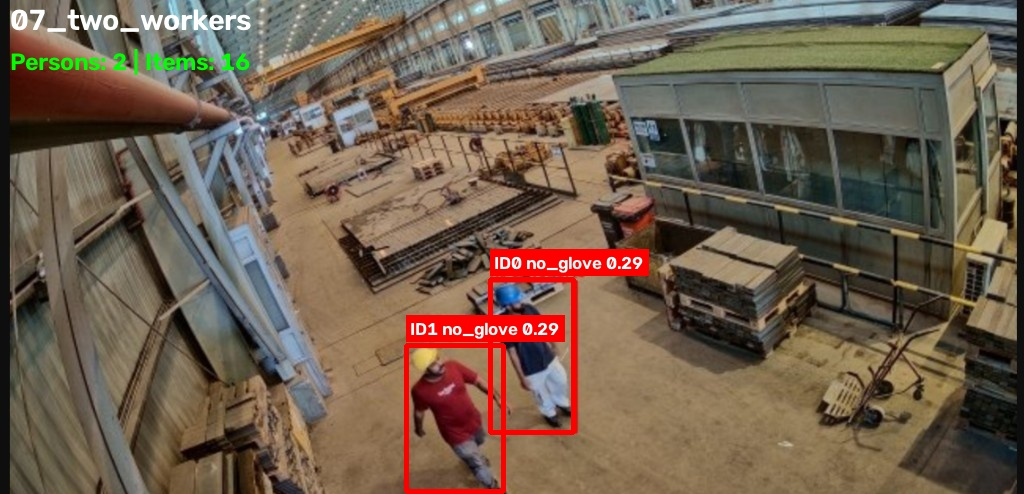
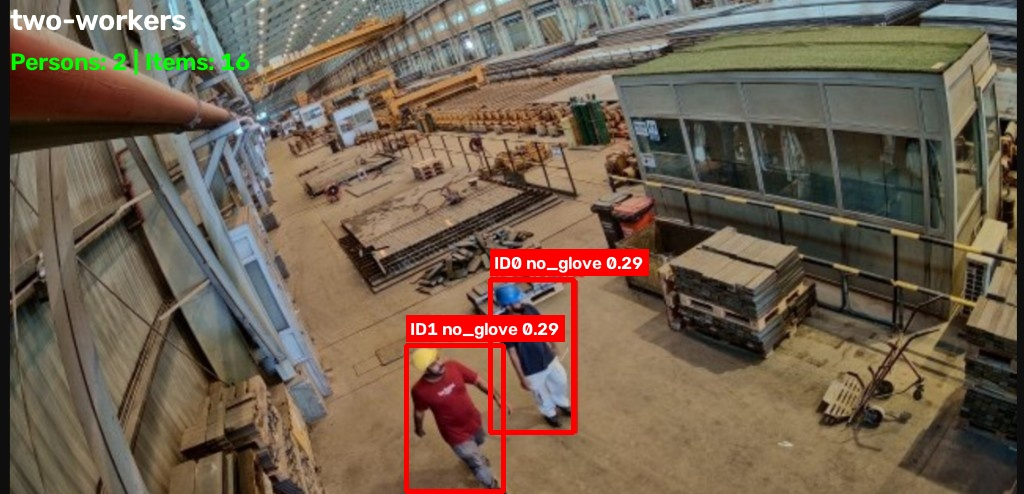
Update NVR IP address to 192.168.18.134 in AllDetect.py, glovesgoogle.py, and camera_shoes.py. Enhance ScreenshotManager by introducing zoom functionality for capturing violating persons, improving visual clarity in screenshots. Adjust detection logic in NVRConnect.py to filter weak false positives 

Changed region(s): [[0.0, 0.0, 0.25, 0.0607]]

diff --git a/screenshot.py b/screenshot.py
@@ -12,20 +12,24 @@ class ScreenshotManager:
         reset_time_seconds=30,
         upload_to_cloudinary=True,
         cloudinary_uploader=None,
+        zoom_pad_ratio=0.40,
+        zoom_out_size=720,
     ):
         self.screenshots_dir = screenshots_dir
         self.reset_time_seconds = reset_time_seconds  # Reset photographed persons after this many seconds
         self.photographed_persons = []  # List of dicts with person info and timestamp
+        self.zoom_pad_ratio = zoom_pad_ratio
+        self.zoom_out_size = zoom_out_size
         self.cloudinary_uploader = (
             cloudinary_uploader
             if cloudinary_uploader is not None
             else (CloudinaryUploader() if upload_to_cloudinary else None)
         )
-        
+
         # Create screenshots directory
         if not os.path.exists(screenshots_dir):
             os.makedirs(screenshots_dir)
-    
+
     def _clean_old_photographed_persons(self):
         """Remove photographed persons that are older than reset_time_seconds"""
         current_time = datetime.now()
@@ -33,34 +37,98 @@ class ScreenshotManager:
             person for person in self.photographed_persons
             if (current_time - person['timestamp']).total_seconds() < self.reset_time_seconds
         ]
-    
+
+    def _alarm_parts(self, label):
+        text = str(label or "").replace("|", ",").replace(" + ", ",")
+        return [p.strip() for p in text.split(",") if p.strip()]
+
+    def _zoom_violation_crop(self, frame, persons):
+        """
+        Zoom into violating person(s): pad the box, crop, then enlarge.
+        Uses a union box when several people violate in the same frame.
+        """
+        h, w = frame.shape[:2]
+        x1 = min(int(p["x1"]) for p in persons)
+        y1 = min(int(p["y1"]) for p in persons)
+        x2 = max(int(p["x2"]) for p in persons)
+        y2 = max(int(p["y2"]) for p in persons)
+
+        bw = max(1, x2 - x1)
+        bh = max(1, y2 - y1)
+        pad_x = int(bw * self.zoom_pad_ratio)
+        pad_y = int(bh * self.zoom_pad_ratio)
+
+        x1 = max(0, x1 - pad_x)
+        y1 = max(0, y1 - pad_y)
+        x2 = min(w, x2 + pad_x)
+        y2 = min(h, y2 + pad_y)
+
+        crop = frame[y1:y2, x1:x2]
+        if crop.size == 0:
+            return frame.copy()
+
+        # Keep aspect ratio; fit longest side to zoom_out_size
+        ch, cw = crop.shape[:2]
+        scale = float(self.zoom_out_size) / float(max(ch, cw))
+        new_w = max(1, int(round(cw * scale)))
+        new_h = max(1, int(round(ch * scale)))
+        zoomed = cv2.resize(crop, (new_w, new_h), interpolation=cv2.INTER_CUBIC)
+
+        # Remap person boxes into zoomed crop coords and draw labels
+        for person_info in persons:
+            px1 = int((int(person_info["x1"]) - x1) * scale)
+            py1 = int((int(person_info["y1"]) - y1) * scale)
+            px2 = int((int(person_info["x2"]) - x1) * scale)
+            py2 = int((int(person_info["y2"]) - y1) * scale)
+            cv2.rectangle(zoomed, (px1, py1), (px2, py2), (0, 0, 255), 2)
+            shown = (
+                str(person_info["label"])
+                .replace("NO-Hardhat", "No Helmet")
+                .replace("Hardhat", "Helmet")
+            )
+            cv2.putText(
+                zoomed,
+                f"{shown} {person_info['confidence']:.2f}",
+                (max(5, px1), max(25, py1 - 8)),
+                cv2.FONT_HERSHEY_SIMPLEX,
+                0.7,
+                (0, 0, 255),
+                2,
+            )
+
+        return zoomed
+
     def take_screenshot(self, frame, violating_persons, camera_name=None):
         """
-        Take a full screenshot with only violating persons highlighted in red.
-        
+        Zoom onto the violating person(s), then save that cropped screenshot.
+
         Args:
             frame: The original video frame
             violating_persons: List of dictionaries containing violation info (label, x1, y1, x2, y2, confidence)
             camera_name: Optional camera name included in Cloudinary metadata
-        
+
         Returns:
-            str: Path to the saved screenshot, or None if no new persons to photograph
+            dict with path/image_url/persons, or None if no new persons to photograph
         """
         # Clean old photographed persons (allow re-photographing after reset_time_seconds)
         self._clean_old_photographed_persons()
-        
+
         # Check if there are any new persons to photograph
         new_persons_to_photograph = []
-        
+
         alarm_labels = {
             "NO-Hardhat", "NO-Safety Vest", "no_glove", "no_goggles",
             "no_helmet", "no_goggle", "no_gloves", "no_boots",
+            "No Helmet", "No Gloves", "No Goggles",
         }
 
         for person_info in violating_persons:
-            parts = [p.strip() for p in str(person_info.get("label", "")).replace("|", ",").split(",")]
-            # Hardhat / helmet means the helmet is on. Do not save that as an alarm.
-            if not any(part in alarm_labels for part in parts):
+            parts = self._alarm_parts(person_info.get("label", ""))
+            # Only alarm on missing-gear labels (ignore worn Hardhat / helmet)
+            if not any(
+                part in alarm_labels or part.split()[0] in alarm_labels
+                for part in parts
+            ):
                 continue
             # Check if this person was already photographed (similar location)
             is_new_person = True
@@ -71,28 +139,24 @@ class ScreenshotManager:
                 if overlap > 0:  # If there's any overlap, consider it the same person
                     is_new_person = False
                     break
-            
+
             if is_new_person:
                 new_persons_to_photograph.append(person_info)
-        
+
         if not new_persons_to_photograph:
             return None
-        
-        # Create a copy of the frame for the screenshot
-        screenshot_frame = frame.copy()
-        
-        # Draw red boxes and labels only for violating persons
-        for person_info in new_persons_to_photograph:
-            cv2.rectangle(screenshot_frame, (person_info['x1'], person_info['y1']), 
-                        (person_info['x2'], person_info['y2']), (0, 0, 255), 2)
-            shown = str(person_info['label']).replace("NO-Hardhat", "No Helmet").replace("Hardhat", "Helmet")
-            cv2.putText(screenshot_frame, f"{shown} {person_info['confidence']:.2f}", 
-                       (person_info['x1'], person_info['y1'] - 5), cv2.FONT_HERSHEY_SIMPLEX, 
-                       0.6, (0, 0, 255), 2)
-        
+
+        # Zoom first, then screenshot the zoomed person crop
+        screenshot_frame = self._zoom_violation_crop(frame, new_persons_to_photograph)
+
         # Save screenshot
         timestamp = datetime.now().strftime("%Y%m%d_%H%M%S")
-        violations_str = "_".join([p['label'] for p in new_persons_to_photograph])
+        violations_str = "_".join(
+            str(p["label"]).replace(" ", "_").replace("+", "")
+            for p in new_persons_to_photograph
+        )
+        # Keep filename short / filesystem-safe
+        violations_str = "".join(c if c.isalnum() or c in "_-" else "_" for c in violations_str)[:80]
         screenshot_path = os.path.join(self.screenshots_dir, f"violation_{violations_str}_{timestamp}.jpg")
         cv2.imwrite(screenshot_path, screenshot_frame)
 
@@ -105,7 +169,7 @@ class ScreenshotManager:
             )
             upload_result = self.cloudinary_uploader.upload(
                 screenshot_path,
-                tags=["safety-violation", "ppe-detection"],
+                tags=["safety-violation", "ppe-detection", "zoomed"],
                 context=context,
             )
             if upload_result:

diff --git a/NVRConnect.py b/NVRConnect.py
@@ -185,9 +185,13 @@ def _label_for(model, class_id, class_map):
     return class_map.get(class_id, str(class_id))
 
 
+# Glove/goggle alarms only for stronger Person scores (blocks pedestal/machinery FPs ~0.39).
+MIN_PERSON_CONF_FOR_BOOTS_ALARM = 0.45
+
+
 def _is_plausible_person_box(box, confidence=1.0):
     """
-    Reject skinny vertical railings/posts mistaken for people.
+    Reject skinny vertical railings/posts / machine stands mistaken for people.
     Weak scores (<0.50) use a stricter aspect/width rule.
     """
     x1, y1, x2, y2 = box
@@ -197,8 +201,8 @@ def _is_plausible_person_box(box, confidence=1.0):
         return False
     aspect = h / float(w)
     if confidence < 0.50:
-        # Railing FPs often land ~0.40–0.45 with tall thin boxes
-        if w < 75 or aspect > 2.55:
+        # Pedestal/machinery FPs ~0.39 often have aspect ~2.0+; real weak people ~1.5
+        if w < 75 or aspect > 1.85:
             return False
     else:
         if w < PERSON_MIN_WIDTH or aspect > PERSON_MAX_ASPECT:
@@ -836,6 +840,13 @@ def process_frame(frame, camera_name, frame_count, person_tracker):
         # Missing helmet: alarm only under the name NO-Hardhat.
         if status.get("Hardhat") == "present":
             alarm_labels = [lab for lab in alarm_labels if lab != "NO-Hardhat"]
+        # Weak false "persons" (machinery) must not trigger glove/goggle screenshots
+        person_conf = float(person.get("confidence") or 0.0)
+        if person_conf < MIN_PERSON_CONF_FOR_BOOTS_ALARM:
+            alarm_labels = [
+                lab for lab in alarm_labels
+                if lab not in ("no_glove", "no_goggles")
+            ]
         if alarm_labels:
             violating_persons.append({
                 "label": ", ".join(alarm_labels),

diff --git a/camera_shoes.py b/camera_shoes.py
@@ -7,7 +7,7 @@ unifi_cameras.json (the three production UniFi NVRs), not the old
 from NVRConnect import main
 
 if __name__ == "__main__":
-    print("Using production UniFi NVRs from .env (192.168.18.130 / .3 / .4).")
+    print("Using production UniFi NVRs from .env (192.168.18.134 / .3 / .4).")
     print("Do not use camera_shoes.py and live_detection_api.py at the same time.")
     print("Prefer:  python unifi_discover.py  then  python live_detection_api.py")
     main()

diff --git a/AllDetect.py b/AllDetect.py
@@ -200,7 +200,7 @@ class PersonTracker:
 
 RAW_USERNAME = "admin"
 RAW_PASSWORD = "Eisa@1234"
-NVR_IP = "192.168.18.130"
+NVR_IP = "192.168.18.134"
 RTSP_PORT = 554
 
 USER_ENC = quote(RAW_USERNAME, safe="")

diff --git a/glovesgoogle.py b/glovesgoogle.py
@@ -172,7 +172,7 @@ class PersonTracker:
 
 RAW_USERNAME = "admin"
 RAW_PASSWORD = "Eisa@1234"
-NVR_IP = "192.168.18.130"
+NVR_IP = "192.168.18.134"
 RTSP_PORT = 554
 
 USER_ENC = quote(RAW_USERNAME, safe="")
